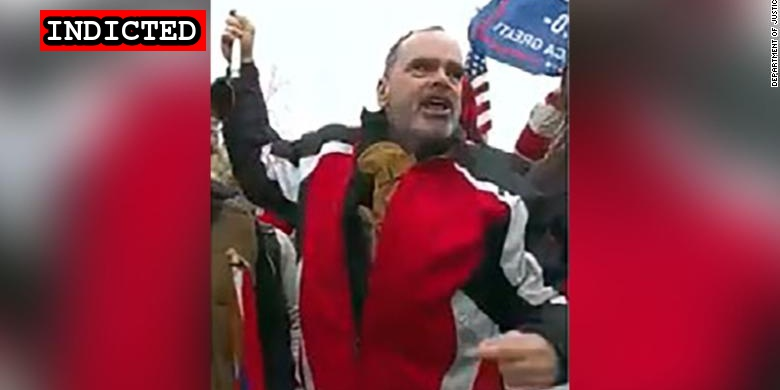
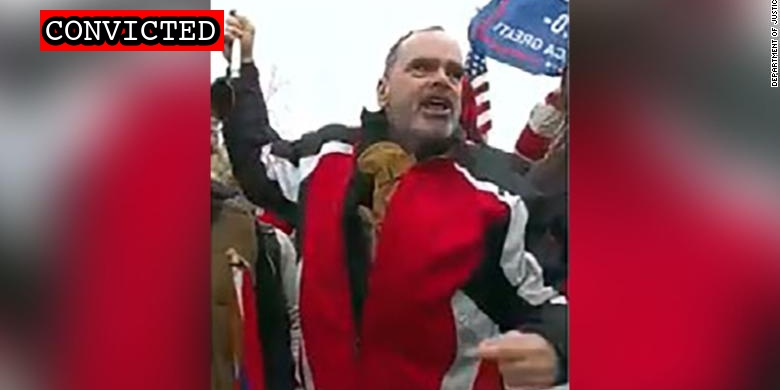
Webster conviction

Changed region(s): [[0.0308, 0.0, 0.3077, 0.1538]]

diff --git a/docs/_suspects/thomas-webster.md b/docs/_suspects/thomas-webster.md
@@ -4,17 +4,18 @@ lastName: Webster
 hashtag: EyeGouger
 aka:
 residence: New York
-status: Indicted
+status: Convicted
 date: 2021-02-22
 charged: 2021-02-22
 indicted: 2021-03-12
-convicted:
+convicted: 2022-05-02
+acquitted:
 sentenced:
 dismissed:
 deceased:
-plea_hearing:
-sentencing:
+plea_hearing: 2022-05-02
 trial_date: 2022-04-25
+sentencing:
 age: 54
 occupation: Former Police Officer, Former U.S. Marine
 affiliations:
@@ -37,6 +38,34 @@ videos:
   - title: Exhibit 1 - N.R. BWC Clip.mp4 (0:00:57)
     url: https://propublica-data-j6cases-videos.s3.us-east-1.amazonaws.com/7cab0080ce2b013960702cde48001122.mp4
 charges:
+  - code: 18 USC § 111(a)(1) and (b)
+    title: Assaulting, resisting, or impeding certain officers or employees (using a deadly or dangerous weapon)
+    url: https://www.law.cornell.edu/uscode/text/18/111
+    felony: true
+  - code: 18 USC § 231(a)(3)
+    title: Civil Disorder
+    url: https://www.law.cornell.edu/uscode/text/18/231
+    felony: true
+  - code: 18 USC § 1752(a)(2) and (b)(1)(A)
+    title: Entering and Remaining in a restricted building or grounds (with a deadly or dangerous weapon)
+    url: https://www.law.cornell.edu/uscode/text/18/1752
+    felony: true
+  - code: 18 USC § 1752(a)(2) and (b)(1)(A)
+    title: Disorderly and disruptive conduct in a restricted building or grounds (with a deadly or dangerous weapon)
+    url: https://www.law.cornell.edu/uscode/text/18/1752
+    felony: true
+  - code: 18 USC § 1752(a)(4) and (b)(1)(A)
+    title: Engaging in Physical Violence in a Restricted Building (with a deadly or dangerous weapon)
+    url: https://www.law.cornell.edu/uscode/text/18/1752
+    felony: true
+  - code: 40 USC § 5104(e)(2)(D)
+    title: Disorderly Conduct in a Capitol Building
+    url: https://www.law.cornell.edu/uscode/text/40/5104
+    felony: false
+  - code: 40 USC § 5104(e)(2)(F)
+    title: Act of physical violence on Capitol grounds
+    url: https://www.law.cornell.edu/uscode/text/40/5104
+    felony: false
 sentence:
 ---
 
